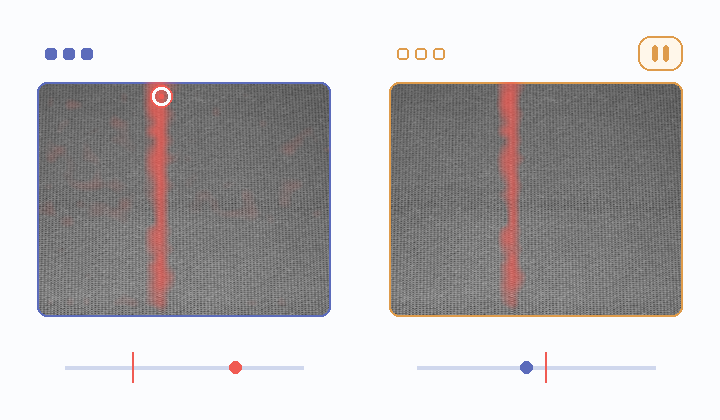
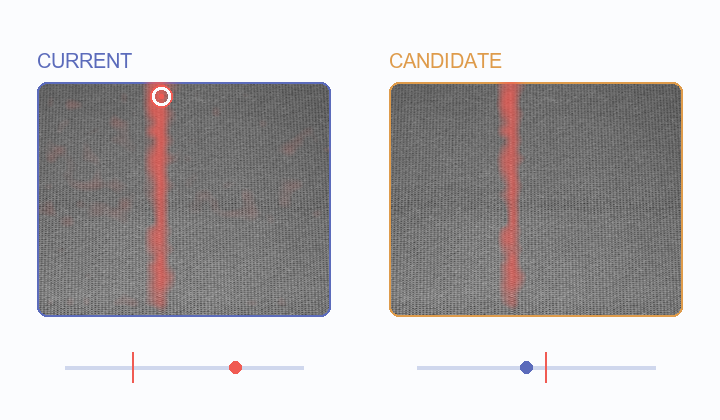
Clarify visual shift and candidate animations

Changed region(s): [[0.5194, 0.0929, 0.7028, 0.1857], [0.0306, 0.0929, 0.1833, 0.1857], [0.8861, 0.0619, 0.9472, 0.1857]]

diff --git a/docs/index.html b/docs/index.html
@@ -84,7 +84,7 @@
 <article class="method-card"><div class="method-animation"><img src="./next-method/03.gif" alt="" loading="lazy"></div><div class="method-card-copy"><span>03</span><div><h3>Select reference frames</h3><p>Keep typical frames in each appearance group.</p></div></div></article>
 <article class="method-card"><div class="method-animation"><img src="./next-method/04.gif" alt="" loading="lazy"></div><div class="method-card-copy"><span>04</span><div><h3>Localize unusual regions</h3><p>Compare patches and flag high scores.</p></div></div></article>
 <article class="method-card"><div class="method-animation"><img src="./next-method/05.gif" alt="" loading="lazy"></div><div class="method-card-copy"><span>05</span><div><h3>Detect visual shifts</h3><p>Signal when image features change.</p></div></div></article>
-<article class="method-card"><div class="method-animation"><img src="./next-method/06.gif" alt="" loading="lazy"></div><div class="method-card-copy"><span>06</span><div><h3>Evaluate a candidate</h3><p>Select new-run frames; compare before updating.</p></div></div></article>
+<article class="method-card"><div class="method-animation"><img src="./next-method/06.gif" alt="" loading="lazy"></div><div class="method-card-copy"><span>06</span><div><h3>Evaluate a candidate</h3><p>Compare both references on the same photo.</p></div></div></article>
       </div>
       <section class="ablation" aria-labelledby="ablation-title">
         <div class="ablation-heading"><div><p class="section-kicker">ONE TEXTURE · THREE HELD-OUT RUNS</p><h3 id="ablation-title">How each method handled the shift.</h3></div></div>

diff --git a/web/landing.html b/web/landing.html
@@ -84,7 +84,7 @@
 <article class="method-card"><div class="method-animation"><img src="./next-method/03.gif" alt="" loading="lazy"></div><div class="method-card-copy"><span>03</span><div><h3>Select reference frames</h3><p>Keep typical frames in each appearance group.</p></div></div></article>
 <article class="method-card"><div class="method-animation"><img src="./next-method/04.gif" alt="" loading="lazy"></div><div class="method-card-copy"><span>04</span><div><h3>Localize unusual regions</h3><p>Compare patches and flag high scores.</p></div></div></article>
 <article class="method-card"><div class="method-animation"><img src="./next-method/05.gif" alt="" loading="lazy"></div><div class="method-card-copy"><span>05</span><div><h3>Detect visual shifts</h3><p>Signal when image features change.</p></div></div></article>
-<article class="method-card"><div class="method-animation"><img src="./next-method/06.gif" alt="" loading="lazy"></div><div class="method-card-copy"><span>06</span><div><h3>Evaluate a candidate</h3><p>Select new-run frames; compare before updating.</p></div></div></article>
+<article class="method-card"><div class="method-animation"><img src="./next-method/06.gif" alt="" loading="lazy"></div><div class="method-card-copy"><span>06</span><div><h3>Evaluate a candidate</h3><p>Compare both references on the same photo.</p></div></div></article>
       </div>
       <section class="ablation" aria-labelledby="ablation-title">
         <div class="ablation-heading"><div><p class="section-kicker">ONE TEXTURE · THREE HELD-OUT RUNS</p><h3 id="ablation-title">How each method handled the shift.</h3></div></div>

diff --git a/scripts/generate_next_method_gifs.py b/scripts/generate_next_method_gifs.py
@@ -266,10 +266,6 @@ def animation_05(meta: dict) -> list[Image.Image]:
     points = source_points + target_points
     boundary = round((source_points[-1][0] + target_points[0][0]) / 2)
     alarm_index = len(source_points) + 2
-    try:
-        font = ImageFont.truetype("DejaVuSans.ttf", 15)
-    except OSError:
-        font = ImageFont.load_default()
     output = []
     for tick in range(FRAMES):
         progress = ease(tick / (FRAMES - 1))
@@ -277,14 +273,12 @@ def animation_05(meta: dict) -> list[Image.Image]:
         draw = ImageDraw.Draw(base)
         source_image = images[0 if tick < 5 else 1]
         target_image = images[2 if tick < 12 else 3 if tick < 16 else 4]
-        photo(base, source_image, (42, 45, 294, 142),
+        photo(base, source_image, (42, 25, 294, 162),
               outline=INDIGO if progress < .5 else LINE)
-        photo(base, target_image, (384, 45, 294, 142),
+        photo(base, target_image, (384, 25, 294, 162),
               outline=RED if progress >= .5 else LINE,
               opacity=.5 if progress < .5 else 1)
         draw = ImageDraw.Draw(base)
-        draw.text((42, 17), "REFERENCE RUN", fill=INDIGO, font=font)
-        draw.text((384, 17), "CHANGED RUN · NORMAL", fill=RED, font=font)
         draw.line((boundary, 213, boundary, 373), fill=PALE, width=2)
         draw.line((plot[0], plot[3], plot[2], plot[3]), fill=LINE, width=2)
         threshold_y = coordinate(limit)
@@ -316,15 +310,17 @@ def animation_06(meta: dict) -> list[Image.Image]:
     current = np.asarray(meta["heatmap"], dtype=float)
     shadow = np.asarray(meta["shadow_heatmap"], dtype=float)
     shared = (float(np.percentile(current, 74)), float(np.percentile(current, 99)))
+    try:
+        font = ImageFont.truetype("arial.ttf", 20)
+    except OSError:
+        font = ImageFont.load_default(size=20)
     output = []
     for tick in range(FRAMES):
         progress = ease(tick / (FRAMES - 1))
         base = new()
         draw = ImageDraw.Draw(base)
-        for i in range(3):
-            draw.rounded_rectangle((45 + 18 * i, 48, 56 + 18 * i, 59), radius=3, fill=INDIGO)
-            draw.rounded_rectangle((397 + 18 * i, 48, 408 + 18 * i, 59),
-                                   radius=3, outline=AMBER, width=2)
+        draw.text((37, 49), "CURRENT", fill=INDIGO, font=font)
+        draw.text((389, 49), "CANDIDATE", fill=AMBER, font=font)
         left, right = (37, 82, 294, 235), (389, 82, 294, 235)
         photo(base, image, left, outline=INDIGO)
         photo(base, image, right, outline=AMBER)
@@ -336,10 +332,6 @@ def animation_06(meta: dict) -> list[Image.Image]:
               color=RED)
         gauge(draw, 417, 367, 238, meta["shadow_score"], meta["shadow_threshold"], progress,
               color=INDIGO)
-        if progress > .65:
-            draw.rounded_rectangle((638, 36, 682, 70), radius=12, fill=(255, 247, 234), outline=AMBER, width=2)
-            draw.rounded_rectangle((652, 45, 657, 61), radius=2, fill=AMBER)
-            draw.rounded_rectangle((663, 45, 668, 61), radius=2, fill=AMBER)
         output.append(base.convert("RGB"))
     return output
 

diff --git a/web/next-method/README.md b/web/next-method/README.md
@@ -1,19 +1,19 @@
 # New pipeline animation assets
 
 Six looping, 720 × 420 GIFs and matching poster frames. `hero.webp` combines
-the six loops into the text-free landing animation. The intended order is:
+the six loops into the landing animation. The intended order is:
 
 1. Continuous production frames
 2. Frozen visual features
 3. Unlabeled reference selection
 4. Patch anomaly localization and review decision
 5. Distribution change detection
-6. Frozen model versus shadow candidate, with a pause on unsafe adaptation
+6. Current reference versus trial candidate on the same photo
 
 The photographs are real TSFabrics production frames. The feature projection,
 reference choices, anomaly maps, scores, and drift curve come from the recorded
-experiment. Animation timing, arrows, dots, and the pause symbol explain the
-process; they are not camera or model outputs. The example in `06.gif` is a real
+experiment. Animation timing and arrows explain the process; they are not
+camera or model outputs. The example in `06.gif` is a real
 held-out defect flagged by the frozen model and missed by the shadow candidate.
 Step `05.gif` pairs photos from source run `T1_S174_I111_1` with photos from the
 separate all-normal changed run `T1_S164_I36_1`. Its plot uses the last 16
